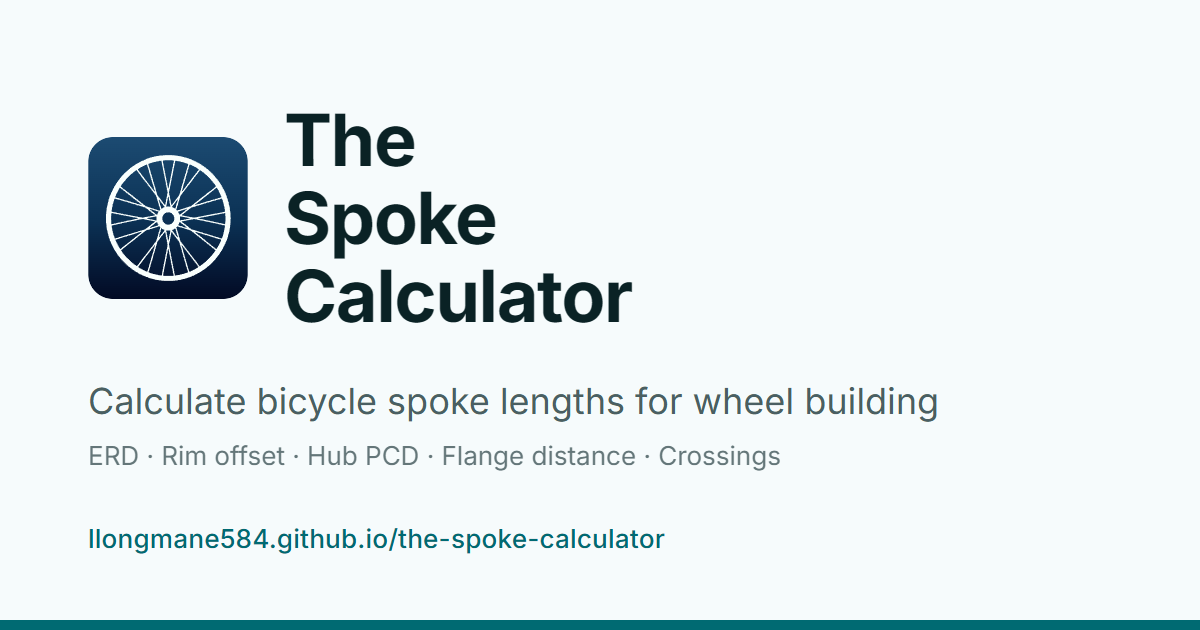
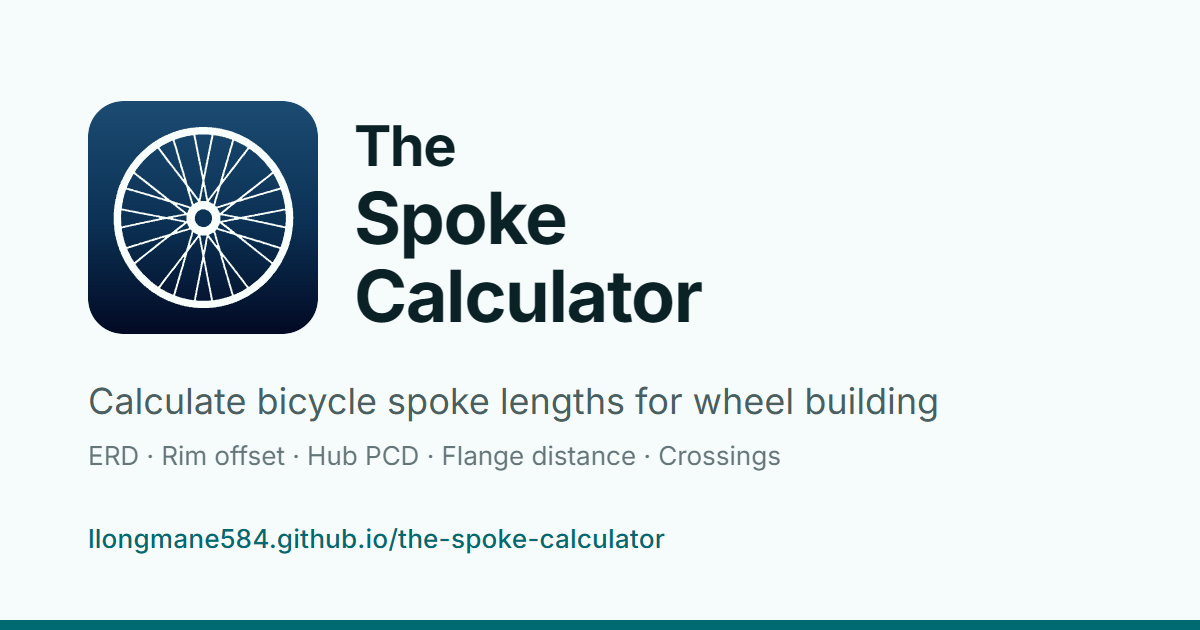
fix(og): アイコンの高さを見出し 3 段と揃え、冠詞を一段小さくする (#150)
アイコンが 160x162 のままだったので、3 段になった見出し (233.28px) に対して小さく、
ロックアップとして釣り合っていなかった。

アイコンの高さを見出し 3 段ぶんに揃える。1 行あたりのサイズと行送りを #card の
カスタムプロパティに出し、見出しとアイコンの両方をそこから導く。数値を 2 箇所に
書くと、片方だけ触ったときに黙って高さがずれる。width は viewBox (822x834) から
導かせる —— 数値で置くと比率がずれる。

あわせて冠詞の The を .article として 56px に落とした。行送りを決めるのは .title の
strut (72px x 1.08) なので、3 段合計の高さは変わらず、アイコンとの一致も崩れない。

実測 (カード上端基準):
- アイコン 101.06 – 334.33 / 高さ 233.27
- 見出し   101.06 – 334.31 / 高さ 233.25
  (差 0.02px は getBoundingClientRect の丸め。どちらも同じ calc() から出ている)
- アイコンのアスペクト比 0.9856 = SVG の 822/834
- .detail 下端 472.92 に対し .url 上端 523.0、余白 50.1px

Inter の関門は true、CDP も Inter-Bold / isCustomFont=true / glyphCount=18。
コンソールのメッセージ 0 件。出力は 1200x630 / 72.8KB。pnpm lint / build ともに通る。

Changed region(s): [[0.0617, 0.1508, 0.5858, 0.5429]]

diff --git a/og/og-card.html b/og/og-card.html
@@ -79,6 +79,10 @@
        padding-bottom が top より大きいのは、フローから外した .url の場所を空けておく
        ため。ここを top と揃えると、中央寄せされた本文の下端が .url に重なる。 */
     #card {
+      /* 見出しの 1 行あたりのサイズと行送り。アイコンの高さもここから導く
+         (.lockup img)。片方だけ触って高さが揃わなくなるのを防ぐため。 */
+      --title-size: 72px;
+      --title-line: 1.08;
       position: relative;
       width: 1200px;
       height: 630px;
@@ -111,19 +115,27 @@
       gap: 36px;
     }
 
+    /* 高さは見出し 3 段ぶん (72px x 1.08 x 3 = 233.28px) と同じにする。
+       width は viewBox (822x834) から導かせる —— 数値で置くと比率がずれる。 */
     .lockup img {
-      width: 160px;
-      height: 162px;
+      height: calc(var(--title-size) * var(--title-line) * 3);
+      width: auto;
       display: block;
     }
 
     /* 3 段組みなので 1 行あたりは 84px から落としてある。84px のままだと見出しの
-       高さが 272px になり、160px のアイコンとの釣り合いも崩れる。 */
+       高さが 272px になり、下の本文と URL に回す余白が残らない。 */
     .title {
-      font-size: 72px;
+      font-size: var(--title-size);
       font-weight: 700;
-      line-height: 1.08;
+      line-height: var(--title-line);
       letter-spacing: -0.02em;
+    }
+
+    /* 冠詞なので本体より一段小さく。行送りを決めるのは .title の strut
+       (72px x 1.08) なので、ここを小さくしても 3 段合計の高さは変わらない。 */
+    .title .article {
+      font-size: 56px;
     }
 
     .sub {
@@ -160,7 +172,7 @@
       <!-- file:// から file:// の <img> は Chromium で読める (塞がれるのは fetch/XHR)。
            空白で出た場合は public/icons/icon-512.png に差し替える。同じ図案。 -->
       <img src="../public/calculator.svg" alt="" />
-      <div class="title">The<br />Spoke<br />Calculator</div>
+      <div class="title"><span class="article">The</span><br />Spoke<br />Calculator</div>
     </div>
     <div>
       <div class="sub">Calculate bicycle spoke lengths for wheel building</div>
